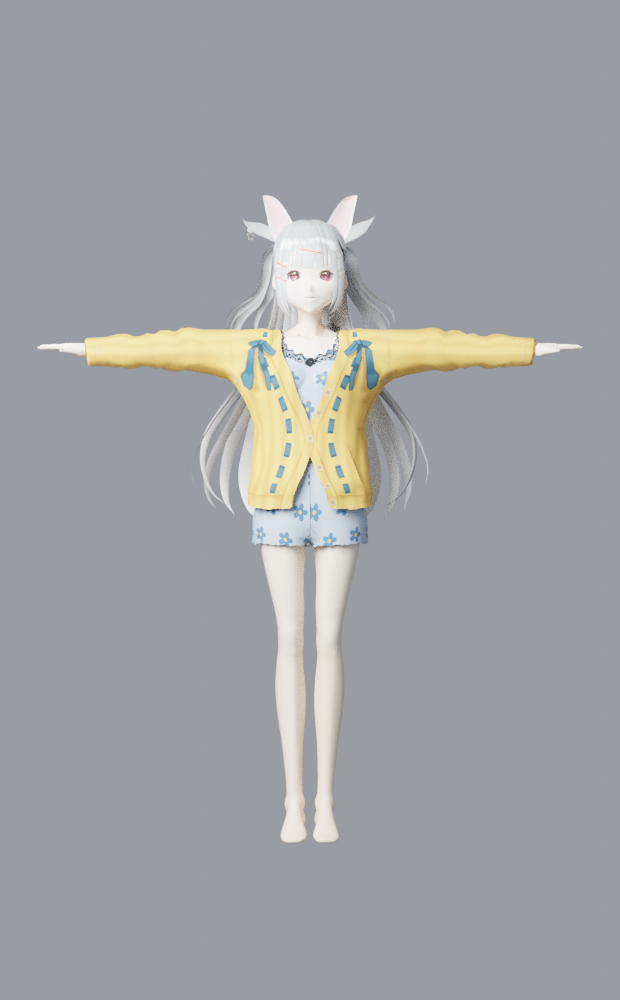
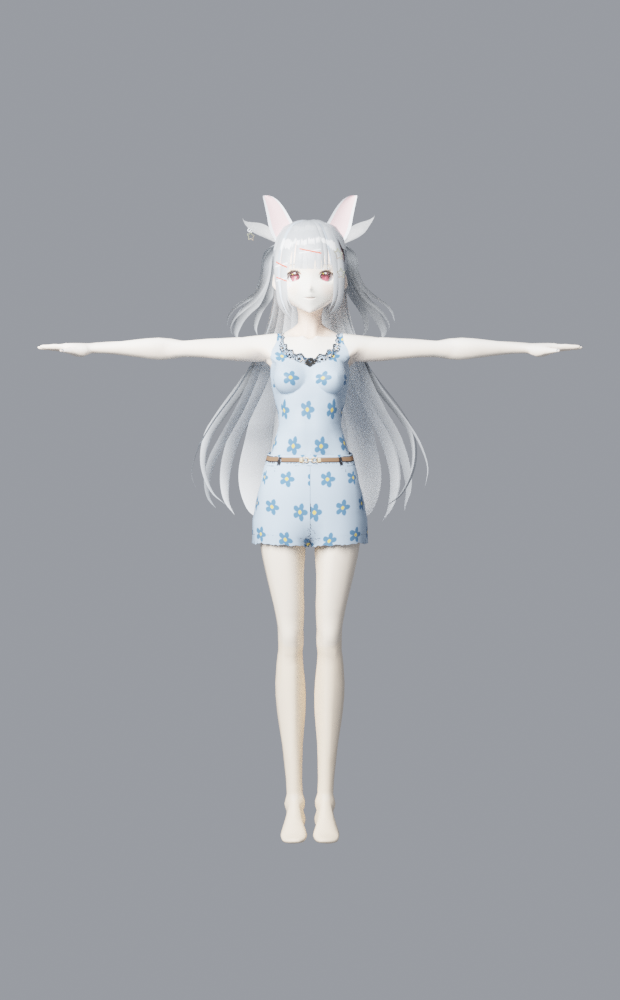
Take the cardigan off for the proportion comparison
It is a bulky garment and it hides the silhouette these two renders exist to
show. Judging a body shape through it is guesswork -- the waist, the hip line
and the shoulder width are all underneath it.

Claude-Session: https://claude.ai/code/session_01KdiKTGuNFyVJk3TLR4SJ8Q

Changed region(s): [[0.1226, 0.31, 0.8887, 0.527]]

diff --git a/CharacterPrototype/tools/blender_proportions.py b/CharacterPrototype/tools/blender_proportions.py
@@ -378,6 +378,12 @@ if __name__ == "__main__":
     bpy.ops.wm.read_factory_settings(use_empty=True)
     import blender_character
     root, arm = blender_character.build_character()
+    # The cardigan comes off for this comparison. It is a bulky garment and it
+    # hides the silhouette these renders exist to show -- judging a body shape
+    # through it is guesswork.
+    import blender_garment
+    blender_garment.strip_garment()
+
     for obj in bpy.data.objects:
         if obj.type == "MESH" and any(k in obj.name for k in NOT_BODY):
             obj.visible_shadow = False
